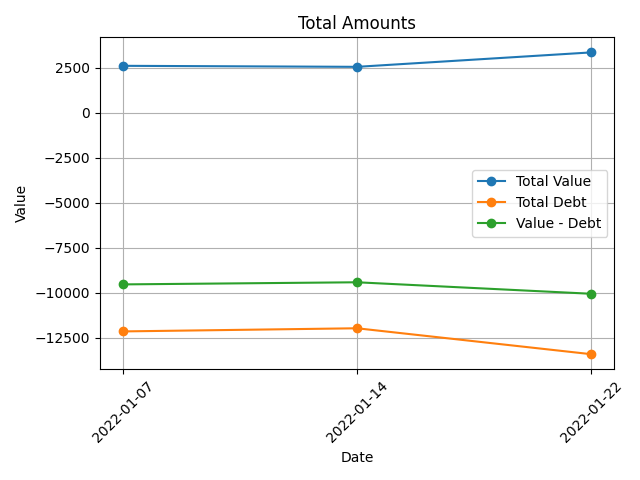
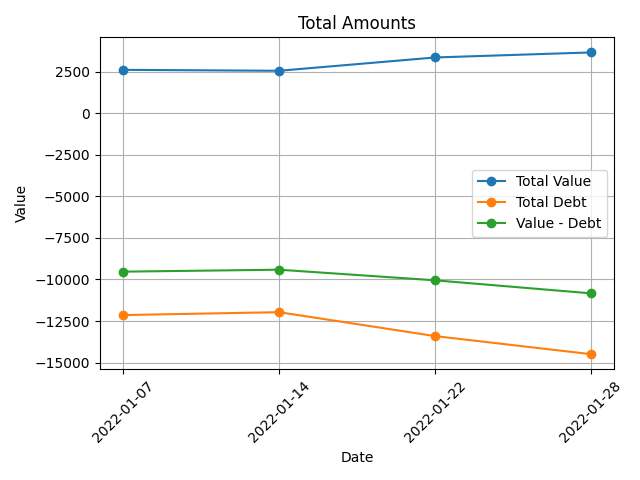
"1/28/22 - Updated"

diff --git a/Report.md b/Report.md
@@ -43,4 +43,5 @@ The chart above shows the amount of value in our accounts, compared to our debt
 
 ## Notes
 * 1/14 is the first date I started running the report **before** transferring money into credit cards. Shows a phantom spike in value/debt charts
-* 1/22 Moved wedding money out of some accounts into holding area; caused the spike in debt and dip in accounts. Boat payoff expected next week 🤑
+* 1/22 Moved wedding money out of some accounts into holding area; caused the spike in debt and dip in accounts. 
+* 1/28 Boat payoff next week 🤑
